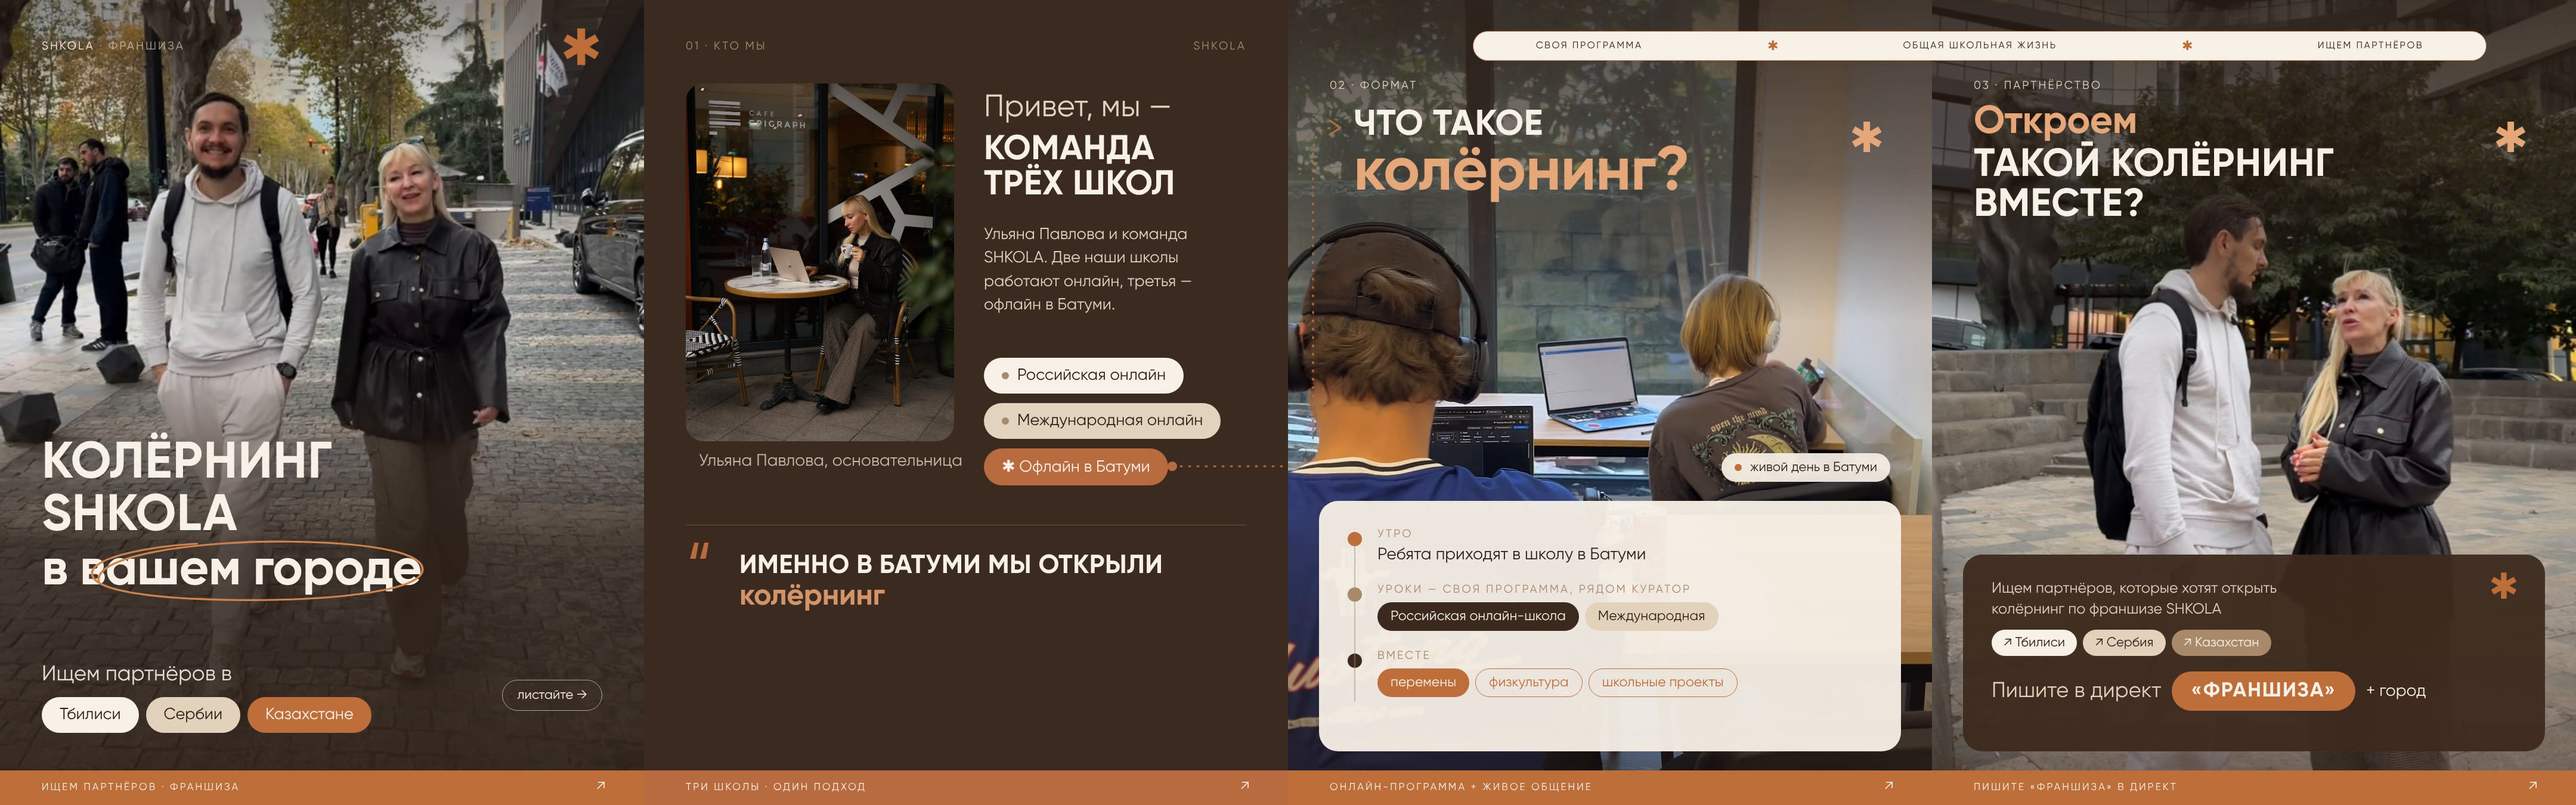
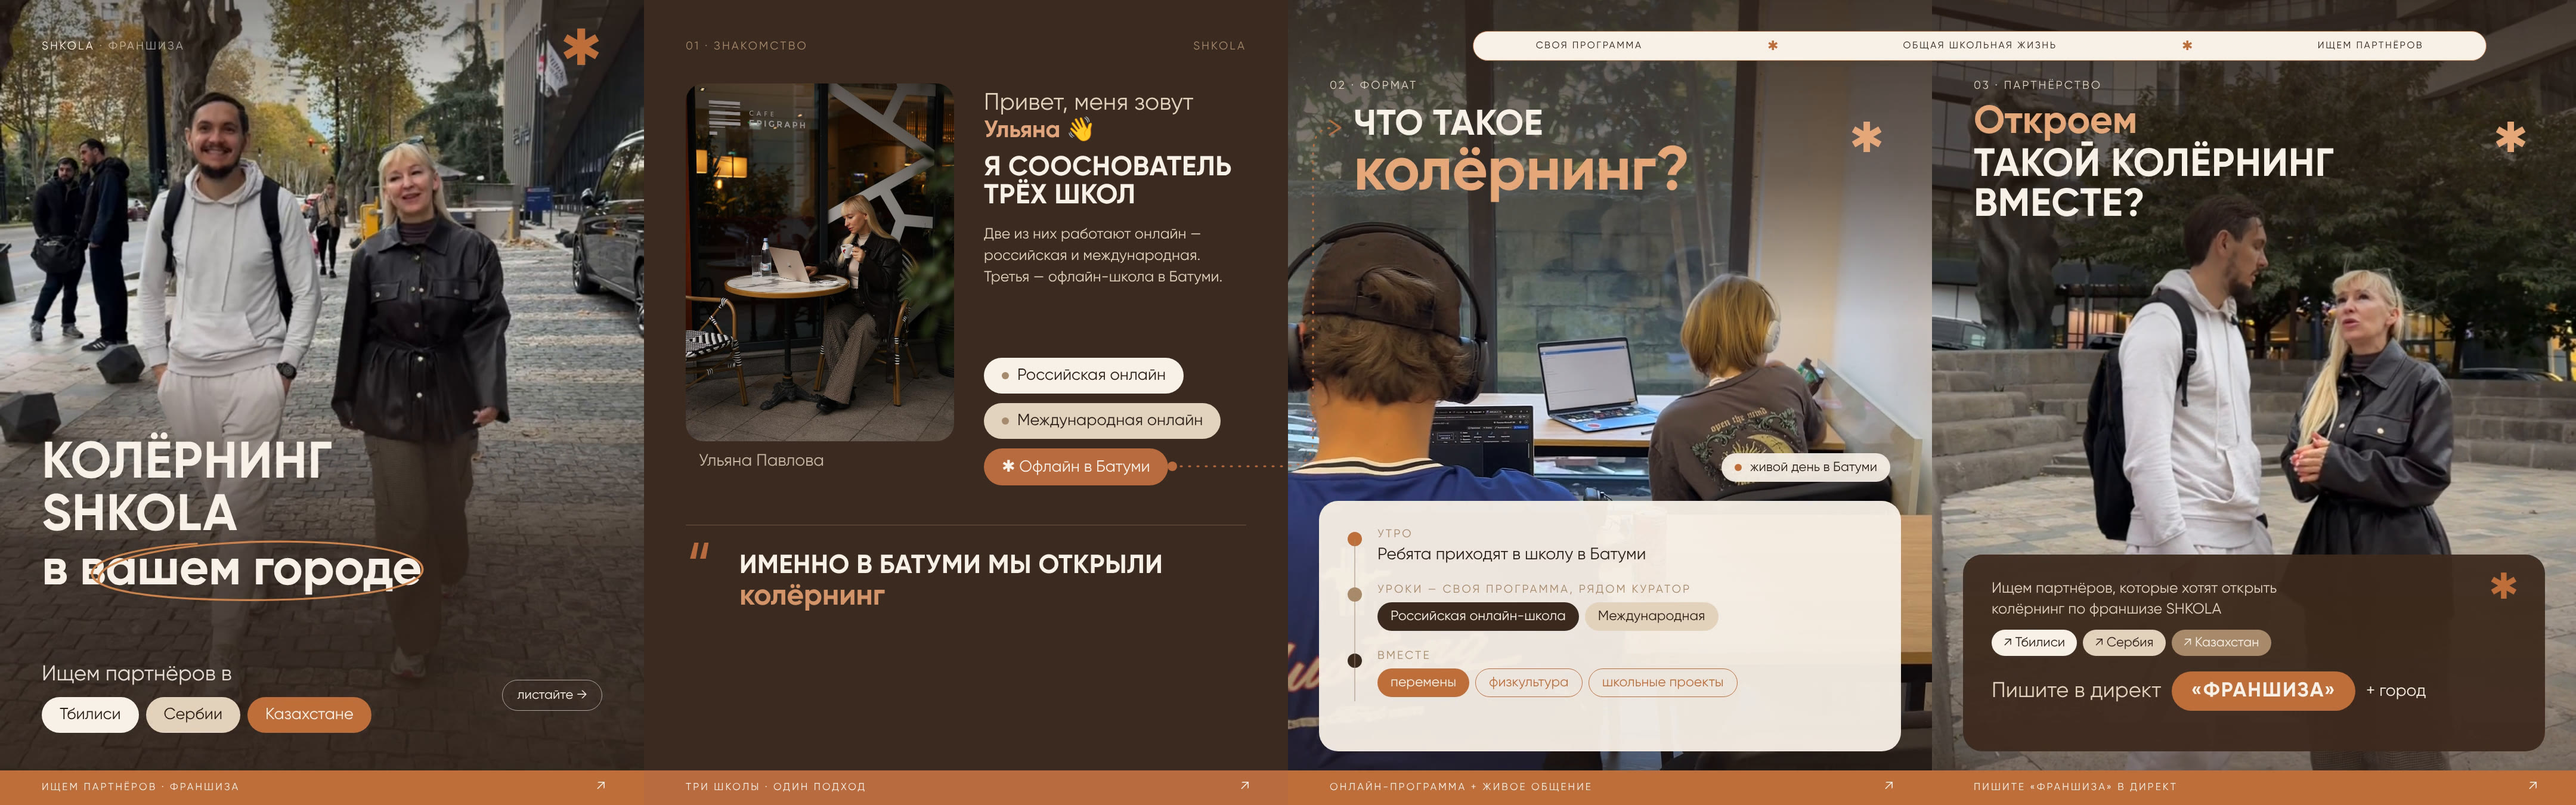
Carousel: slide 2 first-person intro
Claude-Session: https://claude.ai/code/session_01EUhV7wdn39GiuF1YMz6ia3

diff --git a/carousel/src/panorama.html b/carousel/src/panorama.html
@@ -57,18 +57,18 @@ body{position:relative;font-family:var(--sans);color:var(--choco);-webkit-font-s
 
 <!-- ============ SLIDE 2 — кто мы ============ -->
 <div class="slide" style="left:1080px;background:var(--espresso);color:var(--cream)">
-  <div class="abs small" style="left:70px;top:66px;color:var(--camel)">01 · Кто мы</div>
+  <div class="abs small" style="left:70px;top:66px;color:var(--camel)">01 · Знакомство</div>
   <div class="abs small" style="right:70px;top:66px;color:var(--camel)">SHKOLA</div>
 
   <div class="abs" style="left:70px;top:140px;width:450px;height:600px;border-radius:30px;overflow:hidden">
     <img src="cafe.jpg" style="width:100%;height:100%;object-fit:cover;object-position:62% 45%">
   </div>
-  <div class="abs serif" style="left:92px;top:756px;font-size:28px;color:var(--sand2);opacity:.85">Ульяна Павлова, основательница</div>
+  <div class="abs serif" style="left:92px;top:756px;font-size:28px;color:var(--sand2);opacity:.85">Ульяна Павлова</div>
 
   <div class="abs" style="left:570px;top:150px;width:450px">
-    <div class="serif" style="font-size:52px;color:var(--sand2)">Привет, мы —</div>
-    <div class="caps" style="font-size:58px;font-weight:400;margin-top:10px">команда<br>трёх школ</div>
-    <div style="font-size:27px;line-height:1.45;margin-top:34px;color:var(--sand2);font-weight:400">Ульяна Павлова и&nbsp;команда SHKOLA. Две наши школы работают онлайн, третья — офлайн в&nbsp;Батуми.</div>
+    <div class="serif" style="font-size:40px;line-height:1.15;color:var(--sand2)">Привет, меня зовут<br><span class="hl" style="color:#E0A57C">Ульяна</span> 👋</div>
+    <div class="caps" style="font-size:46px;margin-top:16px">Я сооснователь<br>трёх школ</div>
+    <div style="font-size:25px;line-height:1.45;margin-top:24px;color:var(--sand2);font-weight:400">Две из&nbsp;них работают онлайн&nbsp;— российская и&nbsp;международная. Третья&nbsp;— офлайн-школа в&nbsp;Батуми.</div>
   </div>
 
   <div class="abs" style="left:570px;top:600px;display:flex;flex-direction:column;gap:16px;align-items:flex-start">
